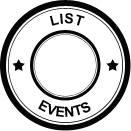
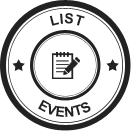
added index images; added i18n strings

diff --git a/app/assets/stylesheets/structure.sass b/app/assets/stylesheets/structure.sass
@@ -90,27 +90,48 @@ header
   background-repeat: no-repeat
   display: inline-block
   height: 131px
-  margin: 70px 25px
+  margin: 30px 25px
   overflow: hidden
   text-indent: 100%
   white-space: nowrap
   width: 131px
+  @include opacity(0.7)
+
+
+.list-icon:hover
+  @include opacity(1)
 
 
 .list-icon.contacts
   background-image: image-url('contacts.png')
 
 
+.list-icon.contacts:hover
+  background-image: image-url('contacts_hover.png')
+
+
 .list-icon.events
   background-image: image-url('events.png')
+
+
+.list-icon.events:hover
+  background-image: image-url('events_hover.png')
 
 
 .list-icon.groups
   background-image: image-url('groups.png')
 
 
+.list-icon.groups:hover
+  background-image: image-url('groups_hover.png')
+
+
 .list-icon.messages
   background-image: image-url('messages.png')
+
+
+.list-icon.messages:hover
+  background-image: image-url('messages_hover.png')
 
 
 .list
